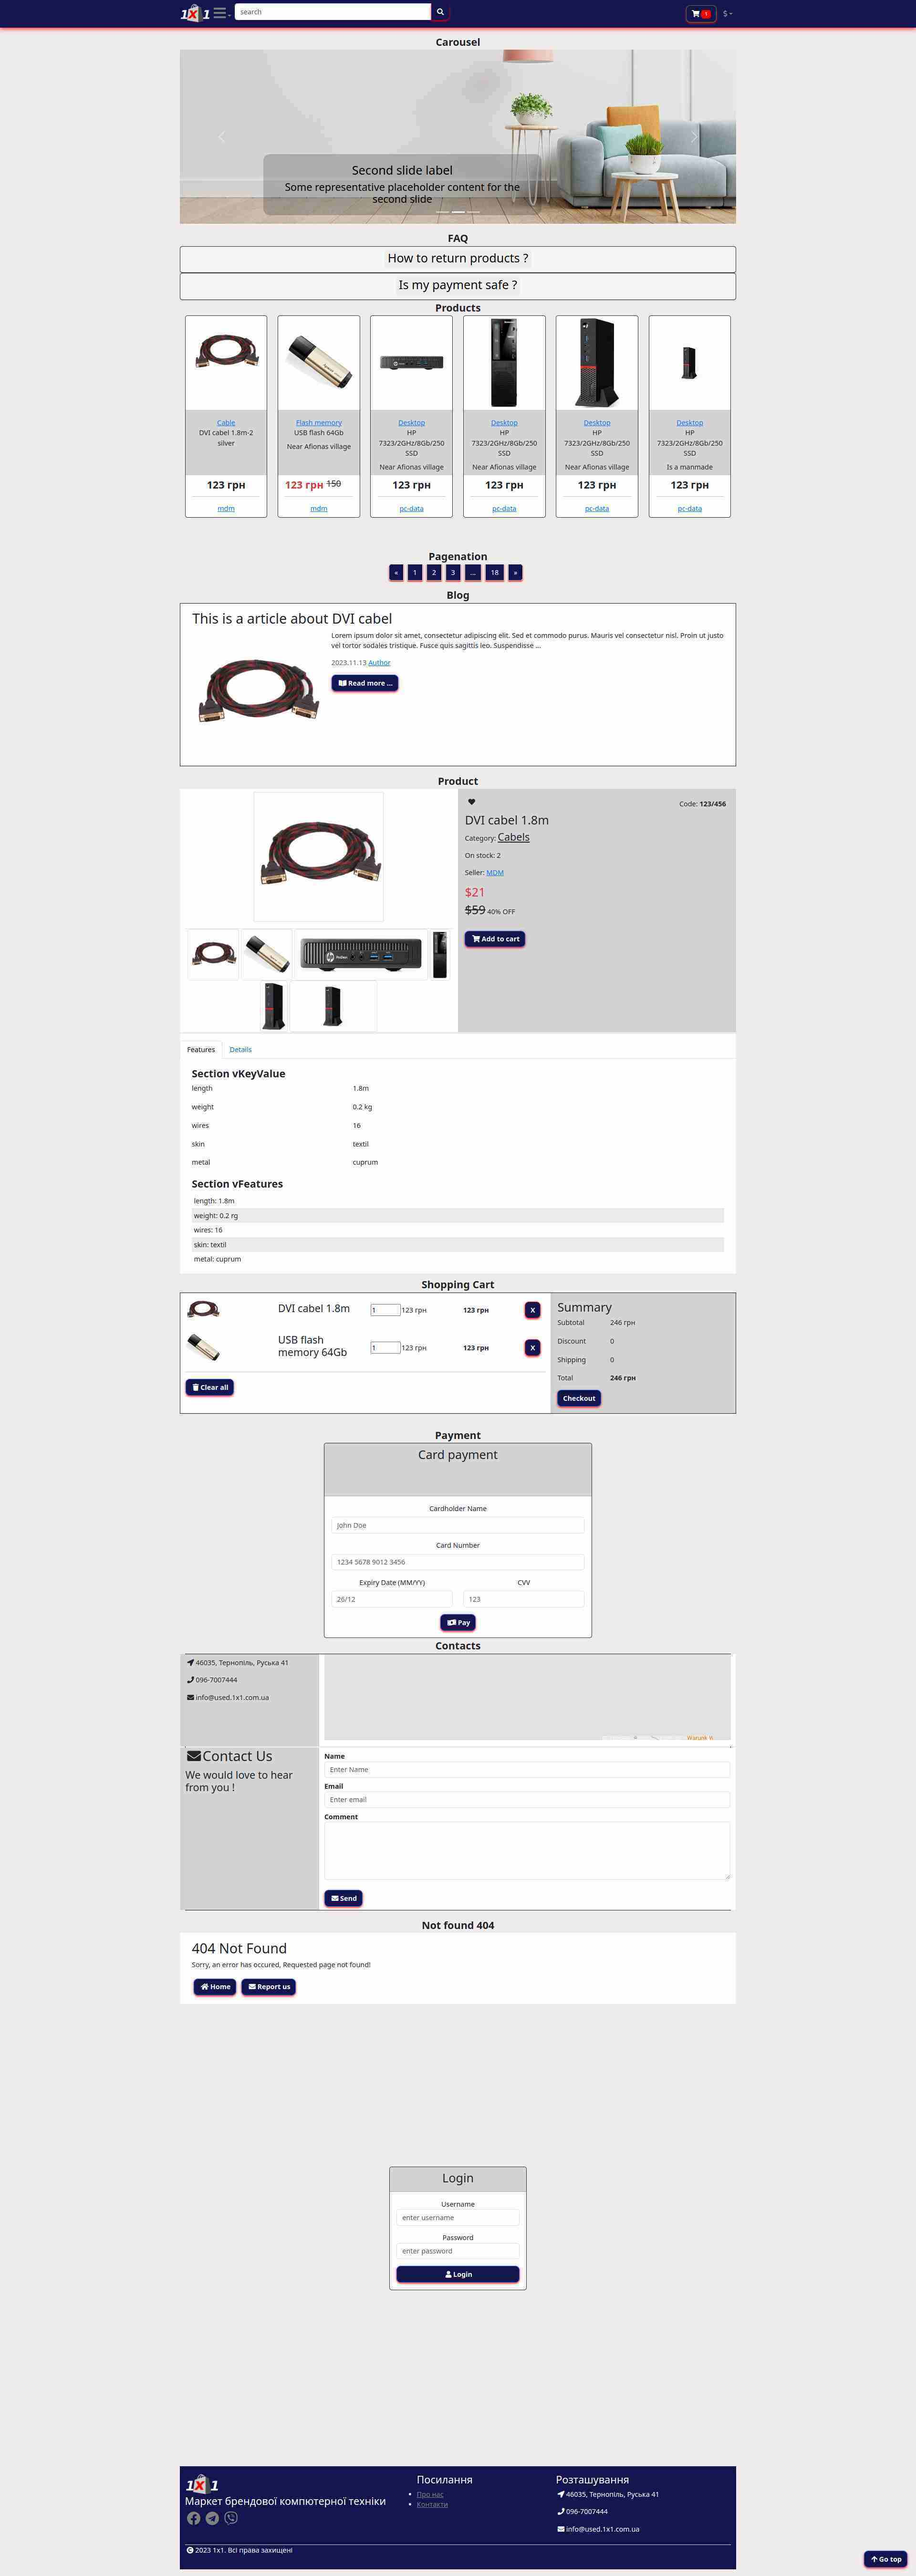
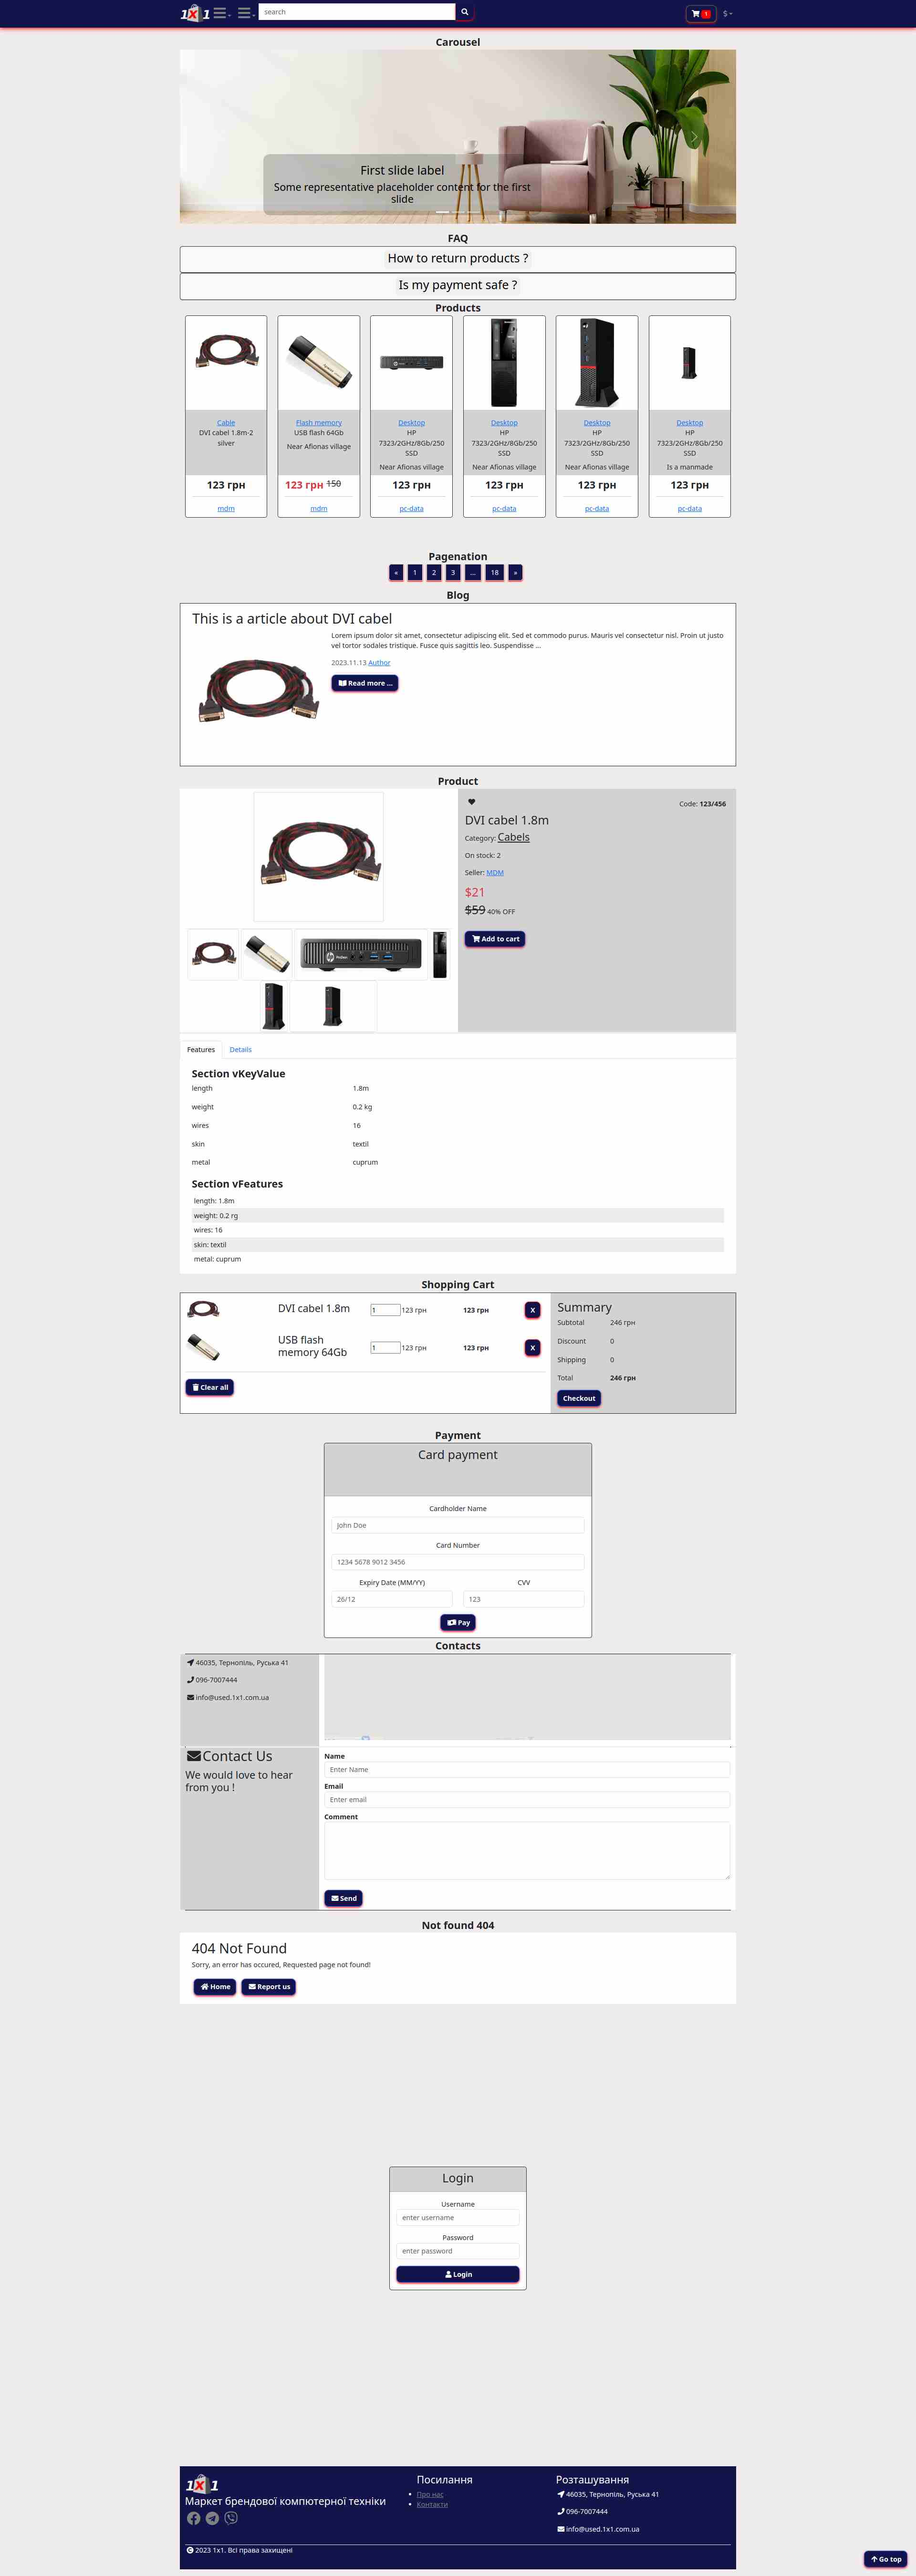
MyCommit

Changed region(s): [[0.1875, 0.0, 0.8125, 0.0934]]

diff --git a/src/assets/js/navbar.js b/src/assets/js/navbar.js
@@ -1,29 +1,70 @@
-function bootnavbar(options) {
-  const defaultOption = {
-    selector: "viMainNavbar"
-  };
+/*
+Created: 2023.11.30
+Author: Vladimir Vons <VladVons@gmail.com>
+License: GNU, see LICENSE for more details
+*/
 
-  const bnOptions = { ...defaultOption, ...options };
 
-  init = function () {
-    var dropdowns = document.getElementById(bnOptions.selector).getElementsByClassName("dropdown");
+function navbarCategoryClick() {
+    function Recurs(aData, aId) {
+        let Res = []
+        for (let x of aData[aId]) {
+            if (x.id in aData) {
+                Res.push('<li class="nav-item dropdown">')
+                Res.push(`<a class="dropdown-item dropdown-toggle" href="${x.href}" role="button" data-bs-toggle="dropdown">${x.title} (${x.products})</a>`)
+                Res.push('<ul class="dropdown-menu">')
+                let ResR = Recurs(aData, x.id)
+                Res = Res.concat(ResR)
+                Res.push('</ul>')
+                Res.push('</li>')
+            }else{
+                Res.push(`<li><a class="dropdown-item" href="${x.href}">${x.title} (${x.products})</a></li>`)
+            }
+        }
+        return Res
+    }
 
-    Array.prototype.forEach.call(dropdowns, (item) => {
-      item.addEventListener("mouseover", function () {
-        this.classList.add("show");
-        const element = this.querySelector(".dropdown-menu");
-        element.classList.add("show");
-      });
+    function displayResults(aData) {
+        let Data = Recurs(aData, 0)
+        let navbarItems = document.getElementById('viMainNavbarItems');
+        navbarItems.innerHTML = Data.join('\n')
+        navbarSubmenu({"selector": "viMainNavbar2"})
+    }
 
-      item.addEventListener("mouseout", function () {
-        this.classList.remove("show");
-        const element = this.querySelector(".dropdown-menu");
-        element.classList.remove("show");
-      });
-    });
+    //var url = 'assets/cgi/category.json'
+    var url = 'assets/cgi/category.py'
+    fetch(url)
+        .then(response => response.json())
+        .then(data => displayResults(data))
+        .catch(error => console.error('Error fetching data:', error))
+}
+
+function navbarSubmenu(options) {
+    const defaultOption = {
+        selector: "viMainNavbar"
+    }
+
+    const bnOptions = { ...defaultOption, ...options };
+
+    init = function () {
+        var dropdowns = document.getElementById(bnOptions.selector).getElementsByClassName("dropdown");
+
+        Array.prototype.forEach.call(dropdowns, (item) => {
+            item.addEventListener("mouseover", function () {
+                this.classList.add("show");
+                const element = this.querySelector(".dropdown-menu");
+                element.classList.add("show");
+            });
+
+            item.addEventListener("mouseout", function () {
+                this.classList.remove("show");
+                const element = this.querySelector(".dropdown-menu");
+                element.classList.remove("show");
+            });
+        });
   };
 
   init();
 }
 
-new bootnavbar();
+navbarSubmenu({"selector": "viMainNavbar1"})

diff --git a/src/index.html b/src/index.html
@@ -27,7 +27,7 @@
             </a>
 
             <ul class="navbar-nav" title="categories">
-                <li class="nav-item dropdown" id="viMainNavbar">
+                <li class="nav-item dropdown" id="viMainNavbar1">
                     <a class="nav-link dropdown-toggle" data-bs-toggle="dropdown"  href="#"><i class="fa fa-bars" style="font-size: 2.0em;"></i></a>
                     <ul class="dropdown-menu">
 
@@ -49,9 +49,20 @@
                 </li>
             </ul>
 
-            <form role="search" action="/submit.html" method="get">
+            <ul class="navbar-nav" title="categories">
+                <li class="nav-item dropdown" id="viMainNavbar2">
+                    <a class="nav-link dropdown-toggle" data-bs-toggle="dropdown" onclick="navbarCategoryClick()" href="#"><i class="fa fa-bars" style="font-size: 2.0em;"></i></a>
+                    <ul class="dropdown-menu" id="viMainNavbarItems">
+                        <li><a class="dropdown-item" href="#">item1 </a></li>
+                        <li><a class="dropdown-item" href="#">item2 </a></li>
+                    </ul>
+                </li>
+            </ul>
+
+            <form role="search" action="/search.html" method="get">
                 <div class="input-group vSearch">
-                    <input type="text" class="form-control" placeholder="search"  list="viSearchSuggest" id="viSearchInput">
+                    <input type="hidden" name="route" value="product0/search"/>
+                    <input type="text" class="form-control" name="q" placeholder="search" list="viSearchSuggest" id="viSearchInput"/>
                          <datalist id="viSearchSuggest">
                             <option value="ukraine">
                             <option value="poland">

diff --git a/src/assets/js/search.js b/src/assets/js/search.js
@@ -17,14 +17,14 @@ searchInput.addEventListener('input', function(aEvent) {
     // fetch API
     fetch(url)
         .then(response => response.json())
-        .then(data => displayResults(aEvent, data))
+        .then(data => displaySearchResults(aEvent, data))
         .catch(error => console.error('Error fetching data:', error));
     } else {
         searchSuggest.innerHTML = '';
     }
-    });
+})
 
-function displayResults(aEvent, aResults) {
+function displaySearchResults(aEvent, aResults) {
     searchSuggest.innerHTML = '';
 
     if (aResults.length > 0) {

diff --git a/src/assets/cgi/category.py b/src/assets/cgi/category.py
@@ -1,0 +1,10 @@
+#!/usr/bin/python3
+
+import json
+
+File = 'category.json'
+with open(File, 'r', encoding = 'utf-8') as F:
+    Data = json.load(F)
+
+print('Content-type: application/json\n')
+print(json.dumps(Data))
